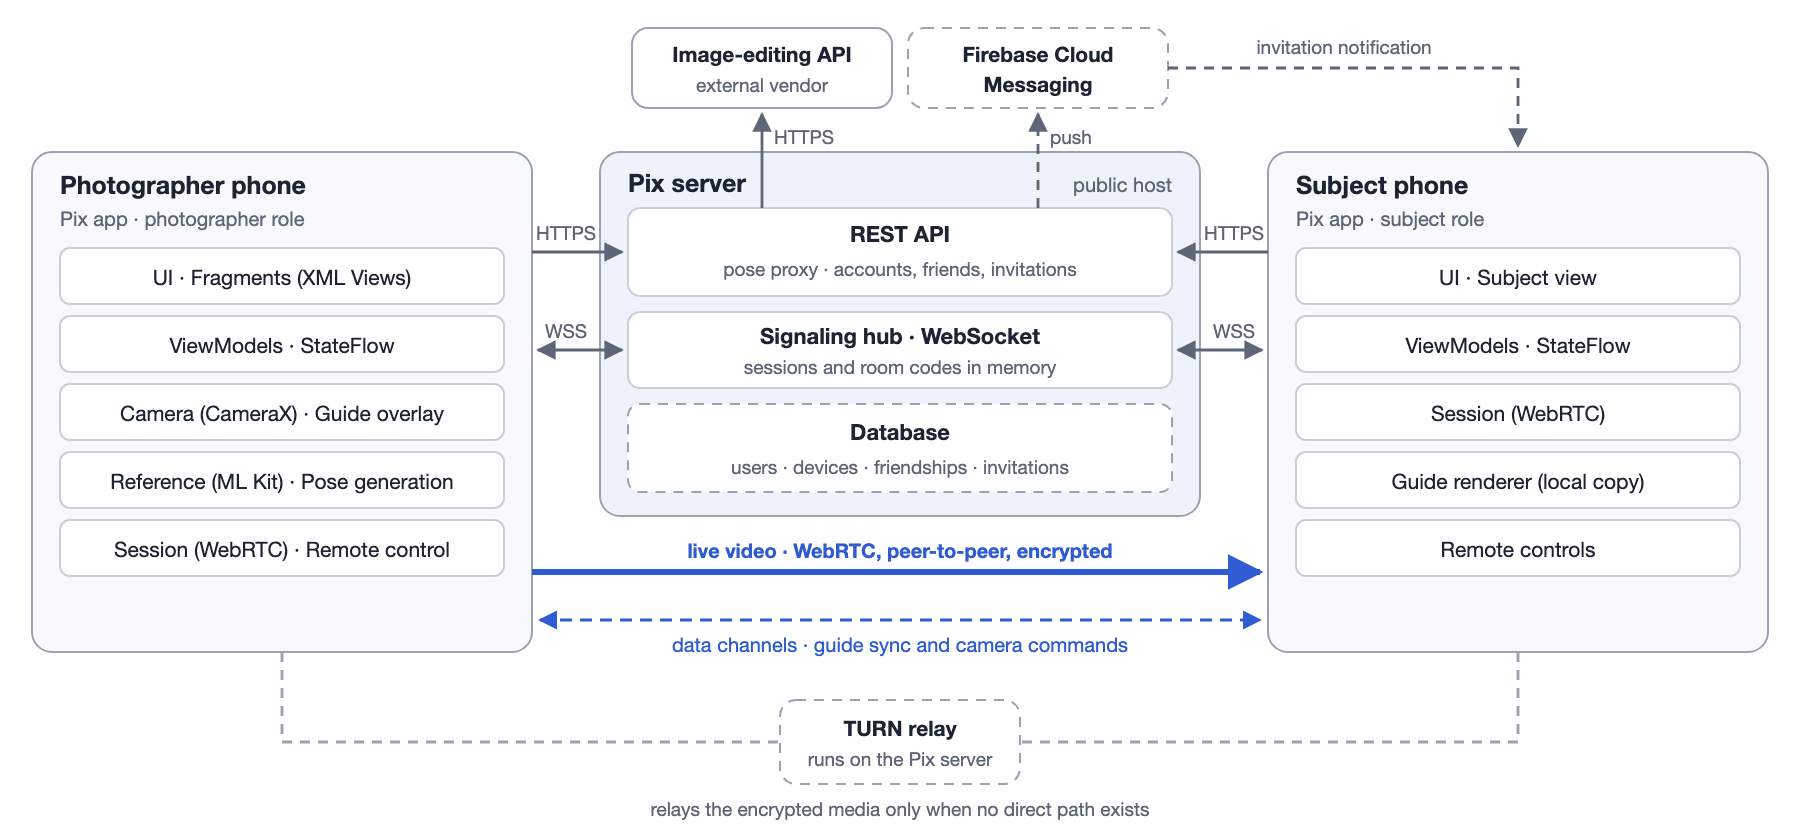
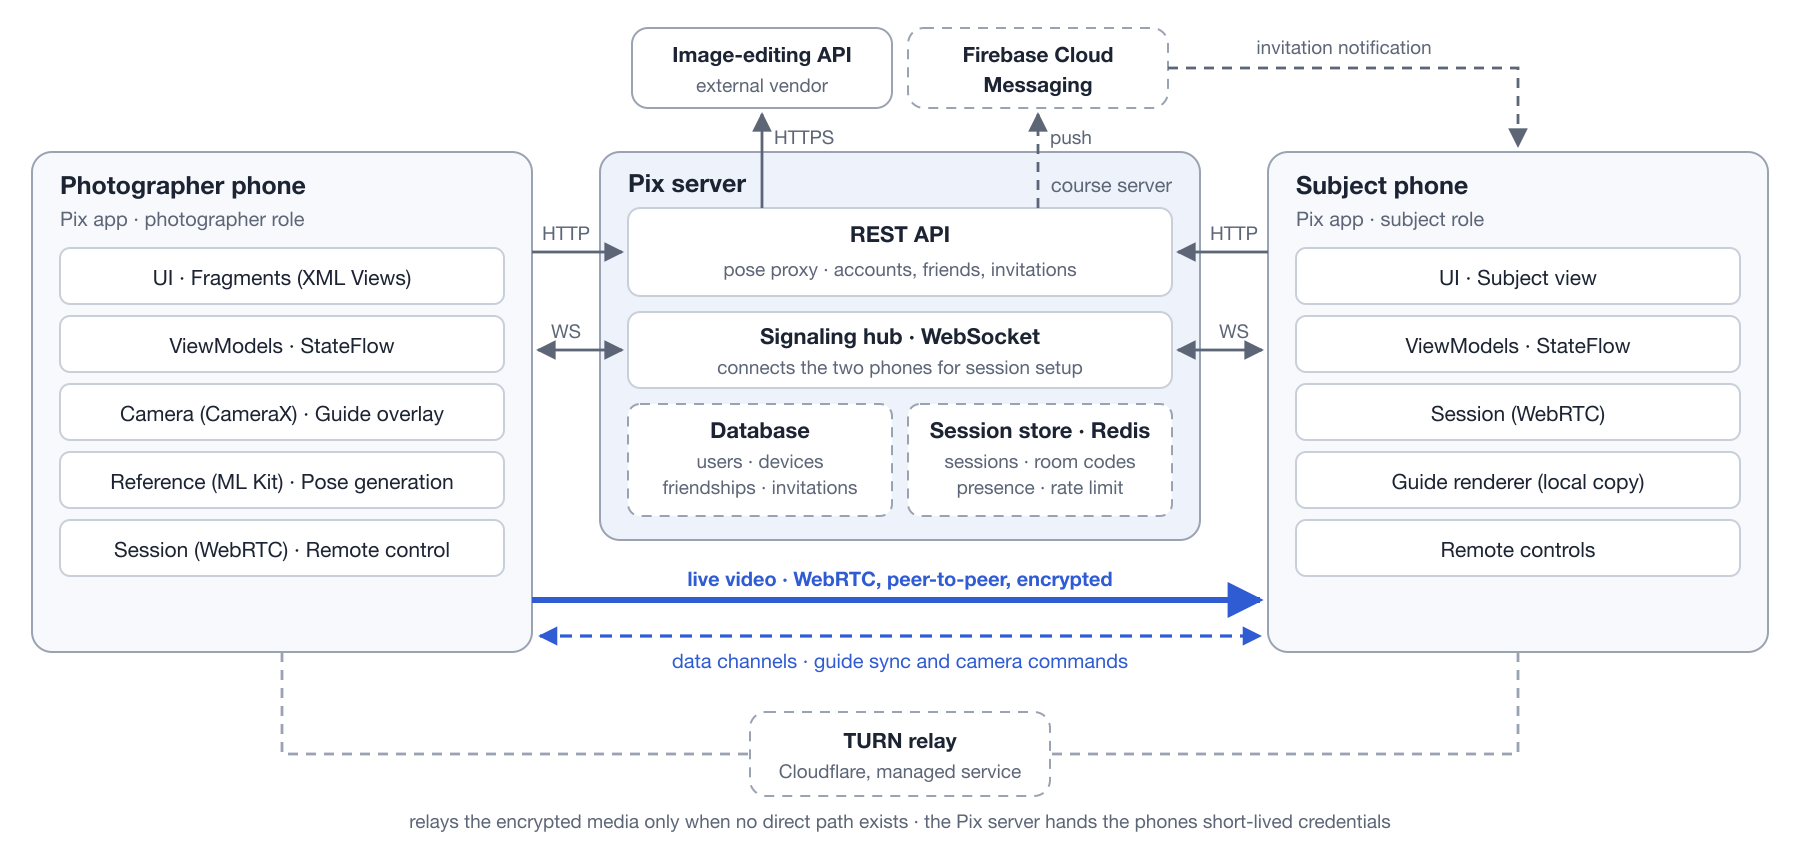
wiki: redraw the target architecture figure for the hosting decisions
Figure 4 of the design now shows what was decided on 2026-10-13: the
phones reach the course server over HTTP and WS, sessions and room codes
are in a Redis session store beside the database, and the TURN relay is
Cloudflare's managed service. The captions of Figures 1 and 4 and the
v1.1 revision row no longer call the figure outdated.

wiki/images/design_architecture.html is the SVG source of both
architecture figures, with the command that renders them; CLAUDE.md
points to it.

diff --git a/wiki/images/design_architecture.html b/wiki/images/design_architecture.html
@@ -1,0 +1,171 @@
+<!DOCTYPE html>
+<html lang="en">
+<head>
+<meta charset="utf-8">
+<title>Pix · Design architecture figures</title>
+<style>
+  body { max-width: 900px; margin: 24px auto; padding: 0 16px; background: #fff; color: #1c2433; font-family: "Helvetica Neue", Arial, sans-serif; }
+  h1 { font-size: 16px; margin: 0 0 4px; }
+  h2 { font-size: 13px; margin: 32px 0 8px; }
+  p { font-size: 12px; color: #5d6677; margin: 0; }
+  code { font-family: "SF Mono", Menlo, monospace; font-size: 11px; }
+</style>
+</head>
+<body>
+<!--
+  Source of the two architecture figures in the Design Documentation (wiki/Design-Documentation.md).
+  The captions and all other text are in that page; this file holds only the drawings.
+
+  To change a figure: edit its <svg> here, save that element alone as an .svg file, and render it at twice
+  its size over the image the wiki page uses:
+    rsvg-convert -w 1800 -b white figure.svg -o wiki/images/<name>.png
+-->
+<h1>Pix · Design architecture figures</h1>
+<p>Open this file in a browser to see the drawings. The published images are <code>design_architecture.png</code> and <code>design_target_architecture.png</code>.</p>
+
+<h2>Figure 1 · <code>design_architecture.png</code> · Iteration 1</h2>
+<svg viewBox="0 0 900 366" xmlns="http://www.w3.org/2000/svg" font-family="Helvetica Neue, Arial, sans-serif" fill="#1c2433" style="width:100%;height:auto">
+<defs>
+  <marker id="ah" viewBox="0 0 10 10" refX="9" refY="5" markerWidth="7" markerHeight="7" orient="auto-start-reverse"><path d="M0,0 L10,5 L0,10 z" fill="#5d6677"/></marker>
+  <marker id="ahb" viewBox="0 0 10 10" refX="9" refY="5" markerWidth="6" markerHeight="6" orient="auto-start-reverse"><path d="M0,0 L10,5 L0,10 z" fill="#2f5bd3"/></marker>
+</defs>
+<!-- same Wi-Fi network -->
+<rect x="6" y="64" width="888" height="294" rx="12" fill="none" stroke="#9aa3b2" stroke-dasharray="6 5"/>
+<text x="20" y="349" font-size="10" fill="#5d6677">Same Wi-Fi network · Iteration 1 test setup</text>
+<!-- external service -->
+<rect x="385" y="10" width="130" height="40" rx="8" fill="#fff" stroke="#9aa3b2"/>
+<text x="450" y="27" text-anchor="middle" font-size="10.5" font-weight="700">Image-editing API</text>
+<text x="450" y="42" text-anchor="middle" font-size="9.5" fill="#5d6677">external vendor</text>
+<!-- server -->
+<rect x="300" y="76" width="300" height="130" rx="10" fill="#eef2fb" stroke="#9aa3b2"/>
+<text x="314" y="96" font-size="12.5" font-weight="700">Pix server</text>
+<text x="586" y="96" text-anchor="end" font-size="10" fill="#5d6677">laptop · FastAPI</text>
+<rect x="314" y="104" width="272" height="44" rx="6" fill="#fff" stroke="#c9cfd9"/>
+<text x="450" y="121" text-anchor="middle" font-size="11" font-weight="700">REST API · pose proxy</text>
+<text x="450" y="138" text-anchor="middle" font-size="9.5" fill="#5d6677">GET /pose-templates · POST /poses</text>
+<rect x="314" y="156" width="272" height="38" rx="6" fill="#fff" stroke="#c9cfd9"/>
+<text x="450" y="172" text-anchor="middle" font-size="11" font-weight="700">Signaling hub · WebSocket</text>
+<text x="450" y="187" text-anchor="middle" font-size="9.5" fill="#5d6677">room codes and sessions in memory</text>
+<!-- phones -->
+<rect x="16" y="76" width="250" height="250" rx="10" fill="#f7f9fc" stroke="#9aa3b2"/>
+<text x="30" y="97" font-size="12.5" font-weight="700">Photographer phone</text>
+<text x="30" y="113" font-size="10" fill="#5d6677">Pix app · photographer role</text>
+<rect x="30" y="124" width="222" height="28" rx="5" fill="#fff" stroke="#c9cfd9"/><text x="141" y="142.5" text-anchor="middle" font-size="10.5">UI · Fragments (XML Views)</text>
+<rect x="30" y="158" width="222" height="28" rx="5" fill="#fff" stroke="#c9cfd9"/><text x="141" y="176.5" text-anchor="middle" font-size="10.5">ViewModels · StateFlow</text>
+<rect x="30" y="192" width="222" height="28" rx="5" fill="#fff" stroke="#c9cfd9"/><text x="141" y="210.5" text-anchor="middle" font-size="10.5">Camera (CameraX) · Guide overlay</text>
+<rect x="30" y="226" width="222" height="28" rx="5" fill="#fff" stroke="#c9cfd9"/><text x="141" y="244.5" text-anchor="middle" font-size="10.5">Reference (ML Kit) · Pose generation</text>
+<rect x="30" y="260" width="222" height="28" rx="5" fill="#fff" stroke="#c9cfd9"/><text x="141" y="278.5" text-anchor="middle" font-size="10.5">Session (WebRTC) · Remote control</text>
+<rect x="634" y="76" width="250" height="250" rx="10" fill="#f7f9fc" stroke="#9aa3b2"/>
+<text x="648" y="97" font-size="12.5" font-weight="700">Subject phone</text>
+<text x="648" y="113" font-size="10" fill="#5d6677">Pix app · subject role</text>
+<rect x="648" y="124" width="222" height="28" rx="5" fill="#fff" stroke="#c9cfd9"/><text x="759" y="142.5" text-anchor="middle" font-size="10.5">UI · Subject view</text>
+<rect x="648" y="158" width="222" height="28" rx="5" fill="#fff" stroke="#c9cfd9"/><text x="759" y="176.5" text-anchor="middle" font-size="10.5">ViewModels · StateFlow</text>
+<rect x="648" y="192" width="222" height="28" rx="5" fill="#fff" stroke="#c9cfd9"/><text x="759" y="210.5" text-anchor="middle" font-size="10.5">Session (WebRTC)</text>
+<rect x="648" y="226" width="222" height="28" rx="5" fill="#fff" stroke="#c9cfd9"/><text x="759" y="244.5" text-anchor="middle" font-size="10.5">Guide renderer (local copy)</text>
+<rect x="648" y="260" width="222" height="28" rx="5" fill="#fff" stroke="#c9cfd9"/><text x="759" y="278.5" text-anchor="middle" font-size="10.5">Remote control (zoom)</text>
+<!-- control plane edges -->
+<g stroke="#5d6677" stroke-width="1.4" fill="none">
+  <line x1="450" y1="104" x2="450" y2="53" marker-end="url(#ah)"/>
+  <line x1="266" y1="126" x2="311" y2="126" marker-end="url(#ah)"/>
+  <line x1="634" y1="126" x2="589" y2="126" marker-end="url(#ah)"/>
+  <line x1="269" y1="175" x2="311" y2="175" marker-start="url(#ah)" marker-end="url(#ah)"/>
+  <line x1="631" y1="175" x2="589" y2="175" marker-start="url(#ah)" marker-end="url(#ah)"/>
+</g>
+<g font-size="9.5" fill="#5d6677">
+  <text x="457" y="61">HTTPS</text>
+  <text x="283" y="120" text-anchor="middle">HTTP</text>
+  <text x="617" y="120" text-anchor="middle">HTTP</text>
+  <text x="283" y="169" text-anchor="middle">WS</text>
+  <text x="617" y="169" text-anchor="middle">WS</text>
+</g>
+<!-- media plane -->
+<path d="M266,300 H630" stroke="#2f5bd3" stroke-width="3" fill="none" marker-end="url(#ahb)"/>
+<text x="450" y="293" text-anchor="middle" font-size="10" font-weight="700" fill="#2f5bd3">live video · WebRTC, peer-to-peer, encrypted</text>
+<path d="M270,318 H630" stroke="#2f5bd3" stroke-width="1.6" stroke-dasharray="6 4" fill="none" marker-start="url(#ahb)" marker-end="url(#ahb)"/>
+<text x="450" y="334" text-anchor="middle" font-size="10" fill="#2f5bd3">data channels · guide sync and zoom</text>
+</svg>
+
+<h2>Figure 4 · <code>design_target_architecture.png</code> · target from Iteration 2</h2>
+<svg viewBox="0 0 900 422" xmlns="http://www.w3.org/2000/svg" font-family="Helvetica Neue, Arial, sans-serif" fill="#1c2433" style="width:100%;height:auto">
+<defs>
+  <marker id="ah2" viewBox="0 0 10 10" refX="9" refY="5" markerWidth="7" markerHeight="7" orient="auto-start-reverse"><path d="M0,0 L10,5 L0,10 z" fill="#5d6677"/></marker>
+  <marker id="ahb2" viewBox="0 0 10 10" refX="9" refY="5" markerWidth="6" markerHeight="6" orient="auto-start-reverse"><path d="M0,0 L10,5 L0,10 z" fill="#2f5bd3"/></marker>
+</defs>
+<!-- external services -->
+<rect x="316" y="14" width="130" height="40" rx="8" fill="#fff" stroke="#9aa3b2"/>
+<text x="381" y="31" text-anchor="middle" font-size="10.5" font-weight="700">Image-editing API</text>
+<text x="381" y="46" text-anchor="middle" font-size="9.5" fill="#5d6677">external vendor</text>
+<rect x="454" y="14" width="130" height="40" rx="8" fill="#fff" stroke="#9aa3b2" stroke-dasharray="5 4"/>
+<text x="519" y="31" text-anchor="middle" font-size="10.5" font-weight="700">Firebase Cloud</text>
+<text x="519" y="46" text-anchor="middle" font-size="10.5" font-weight="700">Messaging</text>
+<!-- server -->
+<rect x="300" y="76" width="300" height="194" rx="10" fill="#eef2fb" stroke="#9aa3b2"/>
+<text x="314" y="96" font-size="12.5" font-weight="700">Pix server</text>
+<text x="586" y="96" text-anchor="end" font-size="10" fill="#5d6677">course server</text>
+<rect x="314" y="104" width="272" height="44" rx="6" fill="#fff" stroke="#c9cfd9"/>
+<text x="450" y="121" text-anchor="middle" font-size="11" font-weight="700">REST API</text>
+<text x="450" y="138" text-anchor="middle" font-size="9.5" fill="#5d6677">pose proxy · accounts, friends, invitations</text>
+<rect x="314" y="156" width="272" height="38" rx="6" fill="#fff" stroke="#c9cfd9"/>
+<text x="450" y="172" text-anchor="middle" font-size="11" font-weight="700">Signaling hub · WebSocket</text>
+<text x="450" y="187" text-anchor="middle" font-size="9.5" fill="#5d6677">connects the two phones for session setup</text>
+<rect x="314" y="202" width="132" height="56" rx="6" fill="#fff" stroke="#9aa3b2" stroke-dasharray="5 4"/>
+<text x="380" y="219" text-anchor="middle" font-size="11" font-weight="700">Database</text>
+<text x="380" y="234" text-anchor="middle" font-size="9.5" fill="#5d6677">users · devices</text>
+<text x="380" y="247" text-anchor="middle" font-size="9.5" fill="#5d6677">friendships · invitations</text>
+<rect x="454" y="202" width="132" height="56" rx="6" fill="#fff" stroke="#9aa3b2" stroke-dasharray="5 4"/>
+<text x="520" y="219" text-anchor="middle" font-size="11" font-weight="700">Session store · Redis</text>
+<text x="520" y="234" text-anchor="middle" font-size="9.5" fill="#5d6677">sessions · room codes</text>
+<text x="520" y="247" text-anchor="middle" font-size="9.5" fill="#5d6677">presence · rate limit</text>
+<!-- phones -->
+<rect x="16" y="76" width="250" height="250" rx="10" fill="#f7f9fc" stroke="#9aa3b2"/>
+<text x="30" y="97" font-size="12.5" font-weight="700">Photographer phone</text>
+<text x="30" y="113" font-size="10" fill="#5d6677">Pix app · photographer role</text>
+<rect x="30" y="124" width="222" height="28" rx="5" fill="#fff" stroke="#c9cfd9"/><text x="141" y="142.5" text-anchor="middle" font-size="10.5">UI · Fragments (XML Views)</text>
+<rect x="30" y="158" width="222" height="28" rx="5" fill="#fff" stroke="#c9cfd9"/><text x="141" y="176.5" text-anchor="middle" font-size="10.5">ViewModels · StateFlow</text>
+<rect x="30" y="192" width="222" height="28" rx="5" fill="#fff" stroke="#c9cfd9"/><text x="141" y="210.5" text-anchor="middle" font-size="10.5">Camera (CameraX) · Guide overlay</text>
+<rect x="30" y="226" width="222" height="28" rx="5" fill="#fff" stroke="#c9cfd9"/><text x="141" y="244.5" text-anchor="middle" font-size="10.5">Reference (ML Kit) · Pose generation</text>
+<rect x="30" y="260" width="222" height="28" rx="5" fill="#fff" stroke="#c9cfd9"/><text x="141" y="278.5" text-anchor="middle" font-size="10.5">Session (WebRTC) · Remote control</text>
+<rect x="634" y="76" width="250" height="250" rx="10" fill="#f7f9fc" stroke="#9aa3b2"/>
+<text x="648" y="97" font-size="12.5" font-weight="700">Subject phone</text>
+<text x="648" y="113" font-size="10" fill="#5d6677">Pix app · subject role</text>
+<rect x="648" y="124" width="222" height="28" rx="5" fill="#fff" stroke="#c9cfd9"/><text x="759" y="142.5" text-anchor="middle" font-size="10.5">UI · Subject view</text>
+<rect x="648" y="158" width="222" height="28" rx="5" fill="#fff" stroke="#c9cfd9"/><text x="759" y="176.5" text-anchor="middle" font-size="10.5">ViewModels · StateFlow</text>
+<rect x="648" y="192" width="222" height="28" rx="5" fill="#fff" stroke="#c9cfd9"/><text x="759" y="210.5" text-anchor="middle" font-size="10.5">Session (WebRTC)</text>
+<rect x="648" y="226" width="222" height="28" rx="5" fill="#fff" stroke="#c9cfd9"/><text x="759" y="244.5" text-anchor="middle" font-size="10.5">Guide renderer (local copy)</text>
+<rect x="648" y="260" width="222" height="28" rx="5" fill="#fff" stroke="#c9cfd9"/><text x="759" y="278.5" text-anchor="middle" font-size="10.5">Remote controls</text>
+<!-- control plane edges -->
+<g stroke="#5d6677" stroke-width="1.4" fill="none">
+  <line x1="381" y1="104" x2="381" y2="57" marker-end="url(#ah2)"/>
+  <line x1="519" y1="104" x2="519" y2="57" marker-end="url(#ah2)" stroke-dasharray="5 4"/>
+  <path d="M584,34 H759 V73" marker-end="url(#ah2)" stroke-dasharray="5 4"/>
+  <line x1="266" y1="126" x2="311" y2="126" marker-end="url(#ah2)"/>
+  <line x1="634" y1="126" x2="589" y2="126" marker-end="url(#ah2)"/>
+  <line x1="269" y1="175" x2="311" y2="175" marker-start="url(#ah2)" marker-end="url(#ah2)"/>
+  <line x1="631" y1="175" x2="589" y2="175" marker-start="url(#ah2)" marker-end="url(#ah2)"/>
+</g>
+<g font-size="9.5" fill="#5d6677">
+  <text x="387" y="72">HTTPS</text>
+  <text x="525" y="72">push</text>
+  <text x="672" y="27" text-anchor="middle">invitation notification</text>
+  <text x="283" y="120" text-anchor="middle">HTTP</text>
+  <text x="617" y="120" text-anchor="middle">HTTP</text>
+  <text x="283" y="169" text-anchor="middle">WS</text>
+  <text x="617" y="169" text-anchor="middle">WS</text>
+</g>
+<!-- media plane -->
+<path d="M266,300 H630" stroke="#2f5bd3" stroke-width="3" fill="none" marker-end="url(#ahb2)"/>
+<text x="450" y="293" text-anchor="middle" font-size="10" font-weight="700" fill="#2f5bd3">live video · WebRTC, peer-to-peer, encrypted</text>
+<path d="M270,318 H630" stroke="#2f5bd3" stroke-width="1.6" stroke-dasharray="6 4" fill="none" marker-start="url(#ahb2)" marker-end="url(#ahb2)"/>
+<text x="450" y="334" text-anchor="middle" font-size="10" fill="#2f5bd3">data channels · guide sync and camera commands</text>
+<!-- TURN -->
+<g stroke="#9aa3b2" stroke-width="1.4" stroke-dasharray="5 4" fill="none">
+  <path d="M141,326 V377 H375"/>
+  <path d="M759,326 V377 H525"/>
+</g>
+<rect x="375" y="356" width="150" height="42" rx="8" fill="#fff" stroke="#9aa3b2" stroke-dasharray="5 4"/>
+<text x="450" y="374" text-anchor="middle" font-size="10.5" font-weight="700">TURN relay</text>
+<text x="450" y="389" text-anchor="middle" font-size="9.5" fill="#5d6677">Cloudflare, managed service</text>
+<text x="450" y="414" text-anchor="middle" font-size="9.5" fill="#5d6677">relays the encrypted media only when no direct path exists · the Pix server hands the phones short-lived credentials</text>
+</svg>
+</body>
+</html>

diff --git a/wiki/Design-Documentation.md b/wiki/Design-Documentation.md
@@ -11,7 +11,7 @@
 | 0.7 | 2026-10-07 | Measurement as built: both phones ping every 2 s, the phone that receives a `ping` logs `ping.received` with its `ts`, and the sender's `rtt` line carries the same `ts`. Matching the two lines gives the difference between the phones' `Timings` clocks, `t(ping.received) − t(rtt) + rtt/2`, so cross-phone latencies such as guide sync can be read from the two logs (2.5.1, 2.8). |
 | 0.8 | 2026-10-09 | Final version for Iteration 1, synced with the current build and the team's decisions. The WebRTC build is decided: `io.github.webrtc-sdk:android` 137.7151.01 (header, 1.2). DataStore keeps only the generation consent (1.2). `CameraController.status` (2.1) and `PeerInfo.haveGuideId` (2.3) are added. When the subject leaves or drops, the photographer's phone goes back to `Waiting` with the same code (2.4). The remote zoom notice shows for 3 s on the Camera screen instead of as a toast (2.6.5), and the use of `camera.state`'s `by` field is corrected (2.5.1). The owners of the app shell and guide sync are corrected (2.9), and the repository tree shows `wiki/` (2.10). This entry also records the composition grid and horizon bar (2.6.2) and ultrawide zoom routing (2.6.5), added on 2026-10-05. |
 | 1.0 | 2026-10-13 | First version for Iteration 2; Iteration 2 versions start at 1.0 and count up by one minor step per change: 1.1, 1.2, …, 1.9, 1.10, 1.11, and so on. Iteration 2 design, from the kickoff on 2026-10-09 (Team Meetings) and the schedule of 2026-10-11, written before feature work (#45, Iter2-P3). Task IDs use the issue numbering `Iter2-Pn` (the schedule's P21–P44 minus 20). Architecture: the server on a public host with HTTPS and WSS, a database, Firebase Cloud Messaging for invitations, and a TURN relay on the same host (1.1, 1.2, AD-11–AD-14, 1.4). Camera: brightness, flash, aspect ratios 4:3, 16:9, and 1:1, and no app shutter sound; the zoom slider is replaced by pinch zoom with a guide-edit mode toggle (AD-10, AD-17, 2.1, 2.3, 2.6.2, 2.6.5). Guide: outline only, never the reference's pixels; the photographer smooths the mask once and sends only that mask; the guide starts where the person stands in the reference; a reference thumbnail; saved guides in private storage (AD-6, AD-15, AD-16, 2.1, 2.3, 2.5.1, 2.6.1, 2.6.2, 2.8). New module interfaces and models for accounts, friends, invitations, camera controls, and saved guides (2.1, 2.3); session states for invitations and reconnection (2.4); new data channel messages, signaling, and REST endpoints with a JSON example each (2.5); pose descriptions and idea chips (2.6.3); invitations and push, reconnection (2.6.6, 2.6.7); the database schema (2.7); Iteration 2 owners and build order (2.9). The details each owner settles while building are listed under *Still open* and as **TODO** in their sections, and come back in later versions. |
-| 1.1 | 2026-10-13 | Hosting decided (Iter2-P4, #46). The server runs on the two course-provided servers, which are reachable only through the course's HTTP proxy on port 80, so it speaks HTTP and WS instead of HTTPS and WSS (AD-11, 1.1, 2.5.2, 2.5.3, 2.8). The TURN relay is Cloudflare's managed service instead of coturn on the server host, which cannot open the ports (AD-14, 1.1.2, 1.2, 2.2, 2.5.2). Session state moves from the server process to a Redis session store, so the server can run several workers and a deploy loses no room (AD-18, 1.1.2, 2.2, 2.7). Deploys are blue-green behind nginx and pulled by each server (2.8, Hosting and Deployment). The invite link cannot be a verified App Link without HTTPS (2.6.6, Still open). Figure 4 still shows the earlier plan. |
+| 1.1 | 2026-10-13 | Hosting decided (Iter2-P4, #46). The server runs on the two course-provided servers, which are reachable only through the course's HTTP proxy on port 80, so it speaks HTTP and WS instead of HTTPS and WSS (AD-11, 1.1, 2.5.2, 2.5.3, 2.8). The TURN relay is Cloudflare's managed service instead of coturn on the server host, which cannot open the ports (AD-14, 1.1.2, 1.2, 2.2, 2.5.2). Session state moves from the server process to a Redis session store, so the server can run several workers and a deploy loses no room (AD-18, 1.1.2, 2.2, 2.7). Deploys are blue-green behind nginx and pulled by each server (2.8, Hosting and Deployment). The invite link cannot be a verified App Link without HTTPS (2.6.6, Still open). Figure 4 is redrawn for these decisions. |
 
 Audience: the development team. This page describes the design of Iterations 1 and 2 in detail; each later iteration adds the design for the features it builds (1.4). **TBD** and **TODO** mark open decisions: *Still open* below lists them with an owner, and each owner updates this page in the PR that settles one. Requirement IDs (FR-, NFR-) refer to the Requirements and Specifications page (v1.1). Testing plans will be in the Testing Documentation.
 
@@ -76,7 +76,7 @@ Pix is one Android app that runs in two roles, **photographer** and **subject**,
 
 ![Architecture in Iteration 1](images/design_architecture.png)
 
-*Figure 1. High-level architecture in Iteration 1. Both phones and the Pix server, which runs on a laptop, are on the same Wi-Fi network; only the image-editing API is outside it. Figure 4 in 1.4 shows the Iteration 2 architecture with the public host, database, push notifications, and relay.*
+*Figure 1. High-level architecture in Iteration 1. Both phones and the Pix server, which runs on a laptop, are on the same Wi-Fi network; only the image-editing API is outside it. Figure 4 in 1.4 shows the Iteration 2 architecture with the course server, database, session store, push notifications, and relay.*
 
 #### 1.1.2 Components and interfaces
 
@@ -266,7 +266,7 @@ Iteration 1 built the core on one Wi-Fi network. Iteration 2 adds accounts, invi
 
 ![Target architecture](images/design_target_architecture.png)
 
-*Figure 4. Target architecture from Iteration 2. The dashed parts are added in Iteration 2: a database, push notifications for invitations, and a relay for cellular connections. The server moves from the laptop to a public host. The figure predates the decisions of 2026-10-13 and is to be redrawn: the phones reach the server over HTTP and WS, sessions and room codes are in a Redis session store next to the database, and the relay is Cloudflare's service, not a process on the Pix server (AD-11, AD-14, AD-18).*
+*Figure 4. Target architecture from Iteration 2. The dashed parts are added in Iteration 2: a database, a session store, push notifications for invitations, and a managed relay for cellular connections. The server moves from the laptop to a course-provided server behind nginx. The phones reach it only over HTTP and WS on port 80, and the relay is Cloudflare's service, not a process on the Pix server (AD-11, AD-14, AD-18).*
 
 #### 1.4.1 Iteration 2 · 10/11 – 10/25 (midterm presentation 10/21)
 

diff --git a/CLAUDE.md b/CLAUDE.md
@@ -5,6 +5,7 @@
 - Always refer to the [design documentation](wiki/Design-Documentation.md) and [requirements and specifications](wiki/Requirements-and-Specifications.md) for detailed information on the project specifications and design considerations.
 - These documents may be updated over time, so check them regularly for the latest information. If any text referencing these documents is outdated, update it to reflect the current state of the documentation.
 - The `wiki/` folder is the source of the GitHub wiki. Edit the pages there, through a pull request like any other change; the `wiki-sync` workflow mirrors the folder to the wiki on every push to `dev`, deletions included, and overwrites anything edited on GitHub directly. Every file in `wiki/` becomes a wiki page or asset, so keep notes and READMEs out of it.
+- The two architecture figures of the design page, `wiki/images/design_architecture.png` and `wiki/images/design_target_architecture.png`, are drawn as SVG in `wiki/images/design_architecture.html`. Change the drawing there and render the PNG again as that file's header comment says; do not edit a PNG alone.
 - Do not make git commits or pushes to the repository on your own. Only make commits and pushes when instructed to do so by a human.
 - Every source file that AI wrote or substantially changed (Kotlin, Gradle scripts, Python, workflow YAML) starts with the marker `AI-generated with <tool>, <YYYY-MM-DD>, reviewed by <name>` as its first line, in the file's line-comment syntax (`//` or `#`), before any docstring or import. Name every tool used (for example `Claude Code`, `ChatGPT Codex`, or `ChatGPT Codex and Claude Code`), the date of the last AI change, and the team member who reviewed the result. One marker line per file, not per function or class, and only in source files, never in documentation, resources, or configuration data. Add or update the marker in the same PR as the code. The reviewer is a human; never fill in a name you were not given.
 
